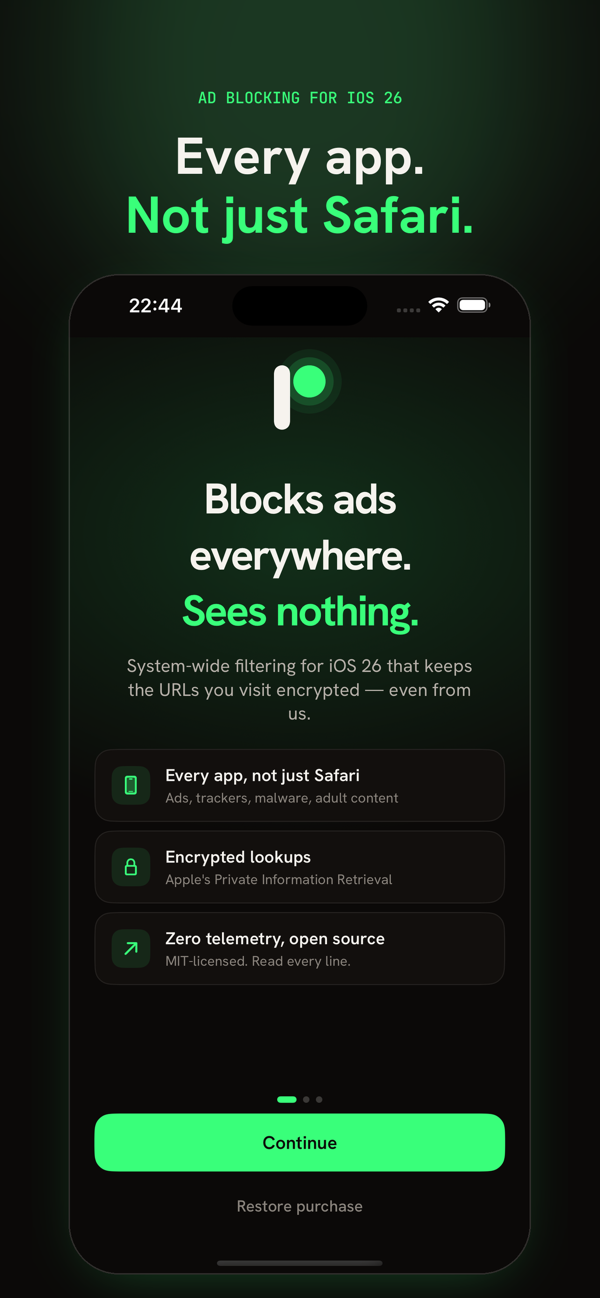
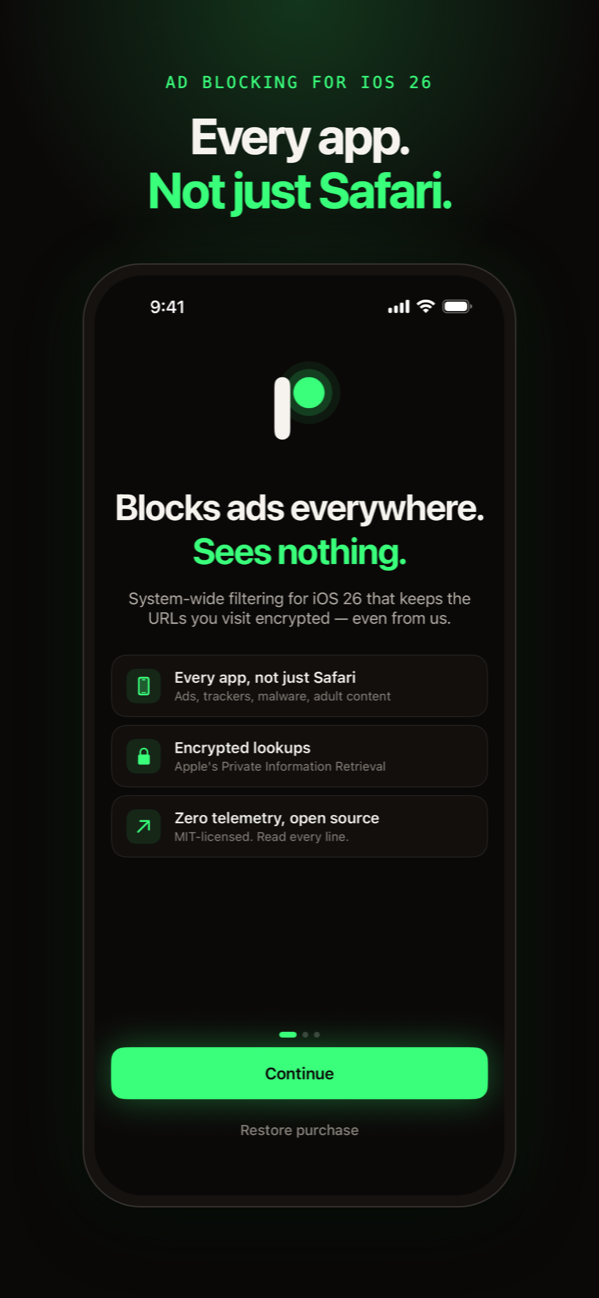
feat: App Store screenshot mode and generator
Debug builds accept PHOSPHOR_SCREENSHOT=welcome|privacy|setup|dashboard|
lists|settings to open that screen with the filter shown as running, so
screenshots can be taken in the Simulator, which cannot run the filter.
Release builds compile it out.

Tools/appstore-screenshots renders the App Store listing images (iPhone
6.5" 1242x2688, iPad 13" 2064x2752) from Simulator captures with
headless Chrome. The new set replaces the listing images that claimed
"four lists", "123,000+ domains" and "~99.9%"; the README uses it too.

diff --git a/Tools/appstore-screenshots/template.html b/Tools/appstore-screenshots/template.html
@@ -1,0 +1,61 @@
+<!doctype html>
+<html>
+<head>
+<meta charset="utf-8">
+<style>
+  :root { --ink950:#0B0908; --ink50:#F6F3EE; --phosphor:#39FF7A; --line:rgba(246,243,238,.14); }
+  html, body { margin:0; width:1242px; height:2688px; background:var(--ink950); overflow:hidden; }
+  body {
+    font-family: -apple-system, "SF Pro Display", system-ui, sans-serif;
+    background:
+      radial-gradient(900px 900px at 50% 0%, rgba(57,255,122,.18), transparent 70%),
+      var(--ink950);
+    display:flex; flex-direction:column; align-items:center;
+  }
+  .eyebrow {
+    margin-top:150px; font-family: ui-monospace, "SF Mono", Menlo, monospace;
+    font-size:34px; letter-spacing:.14em; text-transform:uppercase; color:var(--phosphor);
+  }
+  h1 {
+    margin:34px 60px 0; text-align:center; font-size:104px; line-height:1.08;
+    font-weight:700; letter-spacing:-.035em; color:var(--ink50);
+  }
+  h1 .lit { color:var(--phosphor); display:block; }
+  .phone {
+    margin-top:96px; width:900px; height:1956px; border-radius:120px; padding:22px;
+    background:#151210; border:3px solid var(--line); box-sizing:border-box;
+    box-shadow: 0 40px 120px rgba(0,0,0,.6), 0 0 160px rgba(57,255,122,.10);
+  }
+  .phone img { width:100%; height:100%; border-radius:100px; display:block; object-fit:cover; }
+  /* iPad 13" canvas: 2064x2752 */
+  body.ipad { width:2064px; height:2752px; }
+  html:has(body.ipad) { width:2064px; height:2752px; }
+  body.ipad .eyebrow { margin-top:170px; font-size:44px; }
+  body.ipad h1 { font-size:128px; margin-top:40px; }
+  body.ipad .phone { margin-top:110px; width:1560px; height:2080px; border-radius:80px; padding:30px; }
+  body.ipad .phone img { border-radius:52px; }
+</style>
+</head>
+<body>
+  <div class="eyebrow" id="eyebrow"></div>
+  <h1><span id="line1"></span><span class="lit" id="line2"></span></h1>
+  <div class="phone"><img id="shot" alt=""></div>
+<script>
+  const shots = {
+    welcome:  ["Ad blocking for iOS 26", "Every app.", "Not just Safari."],
+    setup:    ["Apple Private Information Retrieval", "Encrypted lookups.", "Even from us."],
+    lists:    ["159,000+ domains, updated daily", "Five lists built in.", "Add your own."],
+    settings: ["No VPN · No account · No telemetry", "Pause with one tap.", "Choose what to block."],
+  };
+  const params = new URLSearchParams(location.search);
+  const key = params.get("shot") || "welcome";
+  const ipad = params.get("device") === "ipad";
+  if (ipad) document.body.classList.add("ipad");
+  const [eyebrow, l1, l2] = shots[key];
+  document.getElementById("eyebrow").textContent = eyebrow;
+  document.getElementById("line1").textContent = l1;
+  document.getElementById("line2").textContent = l2;
+  document.getElementById("shot").src = "raw/" + (ipad ? "ipad-" : "") + key + ".png";
+</script>
+</body>
+</html>

diff --git a/Phosphor/PhosphorApp.swift b/Phosphor/PhosphorApp.swift
@@ -18,7 +18,9 @@ struct PhosphorApp: App {
     var body: some Scene {
         WindowGroup {
             Group {
-                if !hasCompletedOnboarding {
+                if let screen = ScreenshotMode.screen {
+                    screenshotView(screen)
+                } else if !hasCompletedOnboarding {
                     OnboardingView(hasCompletedOnboarding: $hasCompletedOnboarding)
                 } else {
                     ContentView()
@@ -61,6 +63,18 @@ struct PhosphorApp: App {
         }
         .backgroundTask(.appRefresh(SubscriptionGate.refreshTaskID)) {
             await SubscriptionGate.run()
+        }
+    }
+
+    @ViewBuilder
+    private func screenshotView(_ screen: String) -> some View {
+        switch screen {
+        case "welcome": OnboardingView(hasCompletedOnboarding: .constant(false), initialPage: 0)
+        case "privacy": OnboardingView(hasCompletedOnboarding: .constant(false), initialPage: 1)
+        case "setup": OnboardingView(hasCompletedOnboarding: .constant(false), initialPage: 2)
+        case "lists": ContentView(initialTab: .lists)
+        case "settings": ContentView(initialTab: .settings)
+        default: ContentView(initialTab: .dashboard)
         }
     }
 

diff --git a/Phosphor/ViewModels/DashboardViewModel.swift b/Phosphor/ViewModels/DashboardViewModel.swift
@@ -44,6 +44,11 @@ final class DashboardViewModel {
     }
 
     func loadFilterStatus() async {
+        if ScreenshotMode.isActive {
+            filterIsEnabled = true
+            filterStatus = "Running"
+            return
+        }
         do {
             let manager = NEURLFilterManager.shared
             try await manager.loadFromPreferences()
@@ -62,6 +67,7 @@ final class DashboardViewModel {
     /// Keeps the status current while the dashboard is on screen. The filter can
     /// take a while to go from starting to running, so one read at load is not enough.
     func observeFilterStatus() async {
+        if ScreenshotMode.isActive { return }
         for await status in NEURLFilterManager.shared.handleStatusChange() {
             apply(status)
             filterIsEnabled = NEURLFilterManager.shared.isEnabled

diff --git a/Phosphor/ViewModels/SettingsViewModel.swift b/Phosphor/ViewModels/SettingsViewModel.swift
@@ -60,6 +60,7 @@ final class SettingsViewModel {
     }
 
     func loadFilterStatus() async {
+        if ScreenshotMode.isActive { filterIsRunning = true; return }
         let manager = NEURLFilterManager.shared
         do {
             try await manager.loadFromPreferences()
@@ -71,6 +72,7 @@ final class SettingsViewModel {
     }
 
     func observeFilterStatus() async {
+        if ScreenshotMode.isActive { return }
         let manager = NEURLFilterManager.shared
         for await status in manager.handleStatusChange() {
             filterIsRunning = manager.isEnabled && status == .running

diff --git a/Phosphor/ScreenshotMode.swift b/Phosphor/ScreenshotMode.swift
@@ -1,0 +1,17 @@
+import Foundation
+
+/// Opens one screen with the filter shown as running, for App Store screenshots taken
+/// in the Simulator, which cannot run the filter. Launch with `PHOSPHOR_SCREENSHOT` set
+/// to welcome, privacy, setup, dashboard, lists or settings. Debug builds only; release
+/// builds always return nil.
+enum ScreenshotMode {
+    static var screen: String? {
+        #if DEBUG
+        ProcessInfo.processInfo.environment["PHOSPHOR_SCREENSHOT"]
+        #else
+        nil
+        #endif
+    }
+
+    static var isActive: Bool { screen != nil }
+}

diff --git a/Phosphor/Views/Onboarding/OnboardingView.swift b/Phosphor/Views/Onboarding/OnboardingView.swift
@@ -2,7 +2,12 @@ import SwiftUI
 
 struct OnboardingView: View {
     @Binding var hasCompletedOnboarding: Bool
-    @State private var currentPage = 0
+    @State private var currentPage: Int
+
+    init(hasCompletedOnboarding: Binding<Bool>, initialPage: Int = 0) {
+        _hasCompletedOnboarding = hasCompletedOnboarding
+        _currentPage = State(initialValue: initialPage)
+    }
 
     var body: some View {
         TabView(selection: $currentPage) {

diff --git a/Phosphor/ContentView.swift b/Phosphor/ContentView.swift
@@ -7,7 +7,11 @@ enum PhosphorTab: Hashable {
 }
 
 struct ContentView: View {
-    @State private var selection: PhosphorTab = .dashboard
+    @State private var selection: PhosphorTab
+
+    init(initialTab: PhosphorTab = .dashboard) {
+        _selection = State(initialValue: initialTab)
+    }
 
     var body: some View {
         TabView(selection: $selection) {
